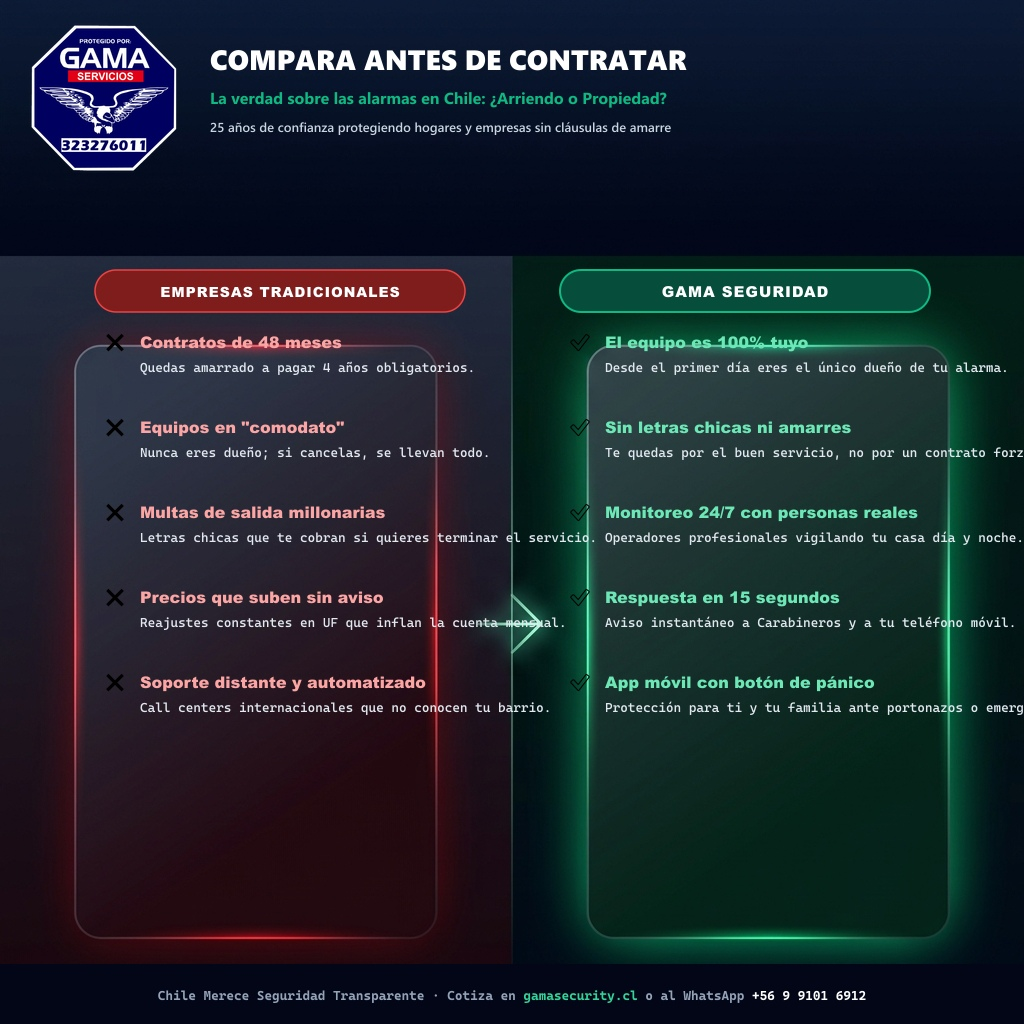
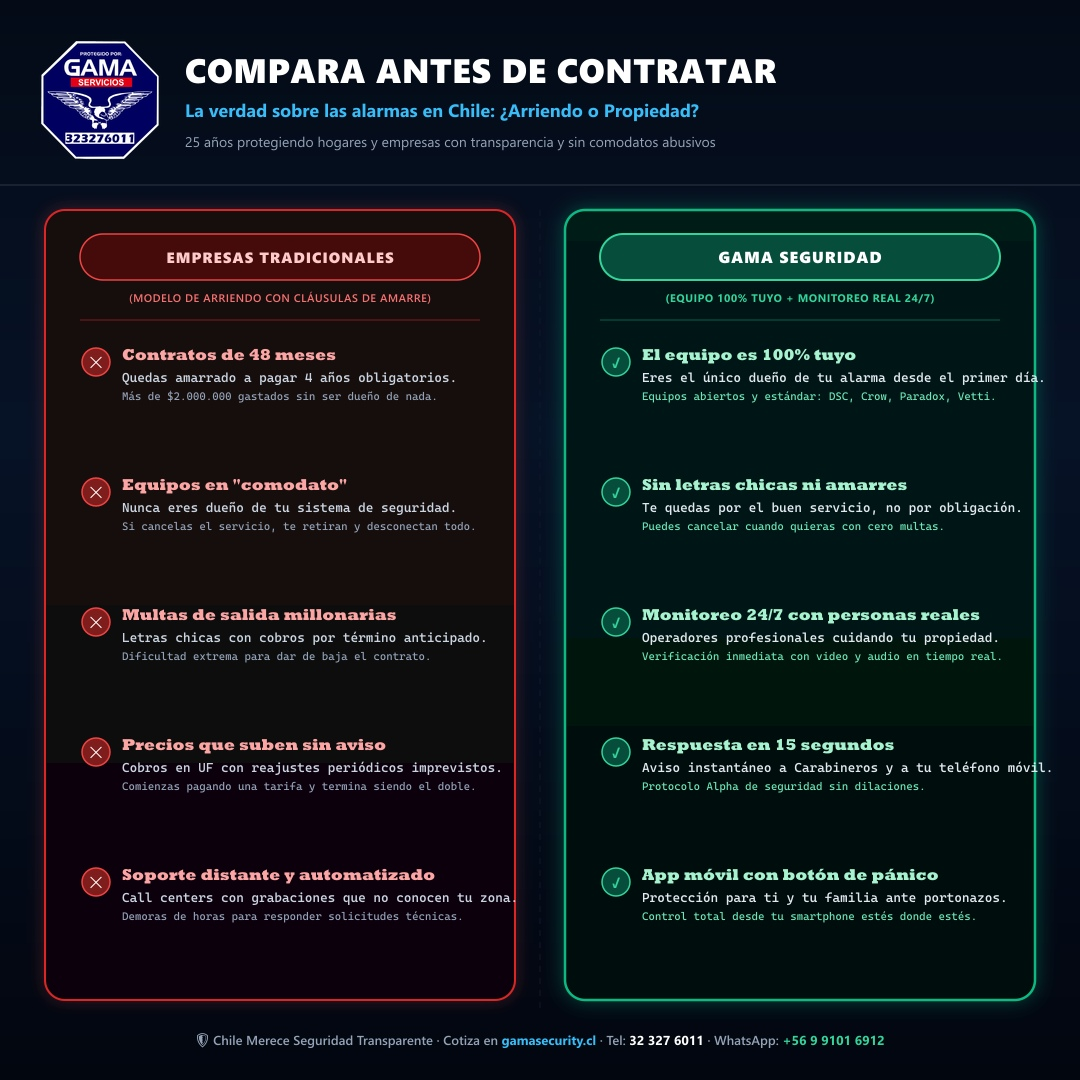
fix: encuadre geometrico matematico de propuesta 2 dentro de sus cuadros

diff --git a/dashboard/scripts/regenerar-propuesta-2-perfecta.js b/dashboard/scripts/regenerar-propuesta-2-perfecta.js
@@ -1,0 +1,228 @@
+const fs = require('fs');
+const path = require('path');
+const sharp = require('sharp');
+
+async function buildPropuesta2() {
+  const logoPath = path.join(__dirname, '..', 'public', 'logo-gama.png');
+  const outputPath = path.join(__dirname, '..', 'public', 'marketing', 'propuesta-grafica-2.jpg');
+  const artifactPath = 'C:\\Users\\tetor\\.gemini\\antigravity-ide\\brain\\4449a04b-35b9-45d2-b998-c52b5810763b\\propuesta_grafica_2_final.jpg';
+
+  // Redimensionar logo oficial manteniendo su transparencia
+  const logoBuffer = await sharp(logoPath)
+    .resize(130, 130, { fit: 'contain', background: { r: 0, g: 0, b: 0, alpha: 0 } })
+    .png()
+    .toBuffer();
+
+  // SVG con diseño 100% geométrico y matemáticamente encuadrado
+  const svgOverlay = Buffer.from(`
+  <svg width="1080" height="1080" viewBox="0 0 1080 1080" xmlns="http://www.w3.org/2000/svg">
+    <defs>
+      <!-- Fondo general -->
+      <linearGradient id="bgGrad" x1="0%" y1="0%" x2="0%" y2="100%">
+        <stop offset="0%" stop-color="#040b17"/>
+        <stop offset="40%" stop-color="#061226"/>
+        <stop offset="100%" stop-color="#02060f"/>
+      </linearGradient>
+
+      <!-- Gradiente Card Tradicionales -->
+      <linearGradient id="cardRedGrad" x1="0%" y1="0%" x2="0%" y2="100%">
+        <stop offset="0%" stop-color="#180a0e"/>
+        <stop offset="100%" stop-color="#0b0507"/>
+      </linearGradient>
+
+      <!-- Gradiente Card Gama -->
+      <linearGradient id="cardGreenGrad" x1="0%" y1="0%" x2="0%" y2="100%">
+        <stop offset="0%" stop-color="#041a18"/>
+        <stop offset="100%" stop-color="#020d0c"/>
+      </linearGradient>
+
+      <!-- Filtro Glow para Gama -->
+      <filter id="glowGreen" x="-10%" y="-10%" width="120%" height="120%">
+        <feDropShadow dx="0" dy="0" stdDeviation="10" flood-color="#10b981" flood-opacity="0.35"/>
+      </filter>
+
+      <!-- Filtro Glow para Tradicionales -->
+      <filter id="glowRed" x="-10%" y="-10%" width="120%" height="120%">
+        <feDropShadow dx="0" dy="0" stdDeviation="8" flood-color="#ef4444" flood-opacity="0.25"/>
+      </filter>
+    </defs>
+
+    <!-- FONDO BASE -->
+    <rect width="1080" height="1080" fill="url(#bgGrad)"/>
+
+    <!-- LÍNEAS TÉCNICAS SUTILES DE FONDO (Cyber Grid) -->
+    <line x1="0" y1="185" x2="1080" y2="185" stroke="#1e293b" stroke-width="1.5"/>
+    <line x1="540" y1="210" x2="540" y2="1010" stroke="#0f172a" stroke-width="1" stroke-dasharray="6,6"/>
+
+    <!-- ==================== HEADER OFICIAL ==================== -->
+    <g transform="translate(185, 45)">
+      <text x="0" y="38" font-family="-apple-system, BlinkMacSystemFont, 'Segoe UI', Roboto, sans-serif" font-weight="900" font-size="34" fill="#ffffff" letter-spacing="0.5">
+        COMPARA ANTES DE CONTRATAR
+      </text>
+      <text x="0" y="72" font-family="-apple-system, BlinkMacSystemFont, 'Segoe UI', Roboto, sans-serif" font-weight="700" font-size="18" fill="#38bdf8">
+        La verdad sobre las alarmas en Chile: ¿Arriendo o Propiedad?
+      </text>
+      <text x="0" y="102" font-family="-apple-system, BlinkMacSystemFont, 'Segoe UI', Roboto, sans-serif" font-weight="500" font-size="14" fill="#94a3b8">
+        25 años protegiendo hogares y empresas con transparencia y sin comodatos abusivos
+      </text>
+    </g>
+
+    <!-- ==================== COLUMNA 1: EMPRESAS TRADICIONALES ==================== -->
+    <!-- Caja contenedora exterior (X: 45, Y: 210, W: 470, H: 790) -->
+    <g filter="url(#glowRed)">
+      <rect x="45" y="210" width="470" height="790" rx="20" fill="url(#cardRedGrad)" stroke="#dc2626" stroke-width="2"/>
+    </g>
+
+    <!-- Cabecera de la Tarjeta Tradicional -->
+    <g transform="translate(45, 210)">
+      <!-- Pill superior -->
+      <rect x="35" y="24" width="400" height="46" rx="23" fill="#450a0a" stroke="#ef4444" stroke-width="1.5"/>
+      <text x="235" y="53" font-family="-apple-system, BlinkMacSystemFont, 'Segoe UI', Roboto, sans-serif" font-weight="900" font-size="15" fill="#fecaca" text-anchor="middle" letter-spacing="1">
+        EMPRESAS TRADICIONALES
+      </text>
+      <text x="235" y="92" font-family="-apple-system, BlinkMacSystemFont, 'Segoe UI', Roboto, sans-serif" font-weight="600" font-size="11" fill="#f87171" text-anchor="middle" letter-spacing="0.5">
+        (MODELO DE ARRIENDO CON CLÁUSULAS DE AMARRE)
+      </text>
+      
+      <!-- Separador interno -->
+      <line x1="35" y1="110" x2="435" y2="110" stroke="#7f1d1d" stroke-width="1"/>
+
+      <!-- Fila 1: Contrato 48 Meses -->
+      <g transform="translate(35, 140)">
+        <circle cx="16" cy="12" r="14" fill="#7f1d1d" stroke="#ef4444" stroke-width="1.5"/>
+        <text x="16" y="18" font-family="-apple-system, BlinkMacSystemFont, Roboto, sans-serif" font-weight="900" font-size="16" fill="#ffffff" text-anchor="middle">✕</text>
+        <text x="42" y="10" font-family="-apple-system, BlinkMacSystemFont, Roboto, sans-serif" font-weight="800" font-size="16" fill="#fca5a5">Contratos de 48 meses</text>
+        <text x="42" y="32" font-family="-apple-system, BlinkMacSystemFont, Roboto, sans-serif" font-weight="500" font-size="13" fill="#cbd5e1">Quedas amarrado a pagar 4 años obligatorios.</text>
+        <text x="42" y="50" font-family="-apple-system, BlinkMacSystemFont, Roboto, sans-serif" font-weight="400" font-size="11" fill="#94a3b8">Más de $2.000.000 gastados sin ser dueño de nada.</text>
+      </g>
+
+      <!-- Fila 2: Equipos en Comodato -->
+      <g transform="translate(35, 270)">
+        <circle cx="16" cy="12" r="14" fill="#7f1d1d" stroke="#ef4444" stroke-width="1.5"/>
+        <text x="16" y="18" font-family="-apple-system, BlinkMacSystemFont, Roboto, sans-serif" font-weight="900" font-size="16" fill="#ffffff" text-anchor="middle">✕</text>
+        <text x="42" y="10" font-family="-apple-system, BlinkMacSystemFont, Roboto, sans-serif" font-weight="800" font-size="16" fill="#fca5a5">Equipos en "comodato"</text>
+        <text x="42" y="32" font-family="-apple-system, BlinkMacSystemFont, Roboto, sans-serif" font-weight="500" font-size="13" fill="#cbd5e1">Nunca eres dueño de tu sistema de seguridad.</text>
+        <text x="42" y="50" font-family="-apple-system, BlinkMacSystemFont, Roboto, sans-serif" font-weight="400" font-size="11" fill="#94a3b8">Si cancelas el servicio, te retiran y desconectan todo.</text>
+      </g>
+
+      <!-- Fila 3: Multas de salida -->
+      <g transform="translate(35, 400)">
+        <circle cx="16" cy="12" r="14" fill="#7f1d1d" stroke="#ef4444" stroke-width="1.5"/>
+        <text x="16" y="18" font-family="-apple-system, BlinkMacSystemFont, Roboto, sans-serif" font-weight="900" font-size="16" fill="#ffffff" text-anchor="middle">✕</text>
+        <text x="42" y="10" font-family="-apple-system, BlinkMacSystemFont, Roboto, sans-serif" font-weight="800" font-size="16" fill="#fca5a5">Multas de salida millonarias</text>
+        <text x="42" y="32" font-family="-apple-system, BlinkMacSystemFont, Roboto, sans-serif" font-weight="500" font-size="13" fill="#cbd5e1">Letras chicas con cobros por término anticipado.</text>
+        <text x="42" y="50" font-family="-apple-system, BlinkMacSystemFont, Roboto, sans-serif" font-weight="400" font-size="11" fill="#94a3b8">Dificultad extrema para dar de baja el contrato.</text>
+      </g>
+
+      <!-- Fila 4: Precios con alzas continuas -->
+      <g transform="translate(35, 530)">
+        <circle cx="16" cy="12" r="14" fill="#7f1d1d" stroke="#ef4444" stroke-width="1.5"/>
+        <text x="16" y="18" font-family="-apple-system, BlinkMacSystemFont, Roboto, sans-serif" font-weight="900" font-size="16" fill="#ffffff" text-anchor="middle">✕</text>
+        <text x="42" y="10" font-family="-apple-system, BlinkMacSystemFont, Roboto, sans-serif" font-weight="800" font-size="16" fill="#fca5a5">Precios que suben sin aviso</text>
+        <text x="42" y="32" font-family="-apple-system, BlinkMacSystemFont, Roboto, sans-serif" font-weight="500" font-size="13" fill="#cbd5e1">Cobros en UF con reajustes periódicos imprevistos.</text>
+        <text x="42" y="50" font-family="-apple-system, BlinkMacSystemFont, Roboto, sans-serif" font-weight="400" font-size="11" fill="#94a3b8">Comienzas pagando una tarifa y termina siendo el doble.</text>
+      </g>
+
+      <!-- Fila 5: Call center distante -->
+      <g transform="translate(35, 660)">
+        <circle cx="16" cy="12" r="14" fill="#7f1d1d" stroke="#ef4444" stroke-width="1.5"/>
+        <text x="16" y="18" font-family="-apple-system, BlinkMacSystemFont, Roboto, sans-serif" font-weight="900" font-size="16" fill="#ffffff" text-anchor="middle">✕</text>
+        <text x="42" y="10" font-family="-apple-system, BlinkMacSystemFont, Roboto, sans-serif" font-weight="800" font-size="16" fill="#fca5a5">Soporte distante y automatizado</text>
+        <text x="42" y="32" font-family="-apple-system, BlinkMacSystemFont, Roboto, sans-serif" font-weight="500" font-size="13" fill="#cbd5e1">Call centers con grabaciones que no conocen tu zona.</text>
+        <text x="42" y="50" font-family="-apple-system, BlinkMacSystemFont, Roboto, sans-serif" font-weight="400" font-size="11" fill="#94a3b8">Demoras de horas para responder solicitudes técnicas.</text>
+      </g>
+    </g>
+
+
+    <!-- ==================== COLUMNA 2: GAMA SEGURIDAD ==================== -->
+    <!-- Caja contenedora exterior (X: 565, Y: 210, W: 470, H: 790) -->
+    <g filter="url(#glowGreen)">
+      <rect x="565" y="210" width="470" height="790" rx="20" fill="url(#cardGreenGrad)" stroke="#10b981" stroke-width="2.5"/>
+    </g>
+
+    <!-- Cabecera de la Tarjeta Gama -->
+    <g transform="translate(565, 210)">
+      <!-- Pill superior -->
+      <rect x="35" y="24" width="400" height="46" rx="23" fill="#064e3b" stroke="#34d399" stroke-width="2"/>
+      <text x="235" y="53" font-family="-apple-system, BlinkMacSystemFont, 'Segoe UI', Roboto, sans-serif" font-weight="900" font-size="16" fill="#ffffff" text-anchor="middle" letter-spacing="1">
+        GAMA SEGURIDAD
+      </text>
+      <text x="235" y="92" font-family="-apple-system, BlinkMacSystemFont, 'Segoe UI', Roboto, sans-serif" font-weight="700" font-size="11" fill="#34d399" text-anchor="middle" letter-spacing="0.5">
+        (EQUIPO 100% TUYO + MONITOREO REAL 24/7)
+      </text>
+
+      <!-- Separador interno -->
+      <line x1="35" y1="110" x2="435" y2="110" stroke="#065f46" stroke-width="1"/>
+
+      <!-- Fila 1: Equipo 100% tuyo -->
+      <g transform="translate(35, 140)">
+        <circle cx="16" cy="12" r="14" fill="#064e3b" stroke="#34d399" stroke-width="1.5"/>
+        <text x="16" y="18" font-family="-apple-system, BlinkMacSystemFont, Roboto, sans-serif" font-weight="900" font-size="15" fill="#34d399" text-anchor="middle">✓</text>
+        <text x="42" y="10" font-family="-apple-system, BlinkMacSystemFont, Roboto, sans-serif" font-weight="800" font-size="16" fill="#a7f3d0">El equipo es 100% tuyo</text>
+        <text x="42" y="32" font-family="-apple-system, BlinkMacSystemFont, Roboto, sans-serif" font-weight="500" font-size="13" fill="#e2e8f0">Eres el único dueño de tu alarma desde el primer día.</text>
+        <text x="42" y="50" font-family="-apple-system, BlinkMacSystemFont, Roboto, sans-serif" font-weight="400" font-size="11" fill="#6ee7b7">Equipos abiertos y estándar: DSC, Crow, Paradox, Vetti.</text>
+      </g>
+
+      <!-- Fila 2: Sin amarres -->
+      <g transform="translate(35, 270)">
+        <circle cx="16" cy="12" r="14" fill="#064e3b" stroke="#34d399" stroke-width="1.5"/>
+        <text x="16" y="18" font-family="-apple-system, BlinkMacSystemFont, Roboto, sans-serif" font-weight="900" font-size="15" fill="#34d399" text-anchor="middle">✓</text>
+        <text x="42" y="10" font-family="-apple-system, BlinkMacSystemFont, Roboto, sans-serif" font-weight="800" font-size="16" fill="#a7f3d0">Sin letras chicas ni amarres</text>
+        <text x="42" y="32" font-family="-apple-system, BlinkMacSystemFont, Roboto, sans-serif" font-weight="500" font-size="13" fill="#e2e8f0">Te quedas por el buen servicio, no por obligación.</text>
+        <text x="42" y="50" font-family="-apple-system, BlinkMacSystemFont, Roboto, sans-serif" font-weight="400" font-size="11" fill="#6ee7b7">Puedes cancelar cuando quieras con cero multas.</text>
+      </g>
+
+      <!-- Fila 3: Monitoreo con personas reales -->
+      <g transform="translate(35, 400)">
+        <circle cx="16" cy="12" r="14" fill="#064e3b" stroke="#34d399" stroke-width="1.5"/>
+        <text x="16" y="18" font-family="-apple-system, BlinkMacSystemFont, Roboto, sans-serif" font-weight="900" font-size="15" fill="#34d399" text-anchor="middle">✓</text>
+        <text x="42" y="10" font-family="-apple-system, BlinkMacSystemFont, Roboto, sans-serif" font-weight="800" font-size="16" fill="#a7f3d0">Monitoreo 24/7 con personas reales</text>
+        <text x="42" y="32" font-family="-apple-system, BlinkMacSystemFont, Roboto, sans-serif" font-weight="500" font-size="13" fill="#e2e8f0">Operadores profesionales cuidando tu propiedad.</text>
+        <text x="42" y="50" font-family="-apple-system, BlinkMacSystemFont, Roboto, sans-serif" font-weight="400" font-size="11" fill="#6ee7b7">Verificación inmediata con video y audio en tiempo real.</text>
+      </g>
+
+      <!-- Fila 4: Respuesta en 15s -->
+      <g transform="translate(35, 530)">
+        <circle cx="16" cy="12" r="14" fill="#064e3b" stroke="#34d399" stroke-width="1.5"/>
+        <text x="16" y="18" font-family="-apple-system, BlinkMacSystemFont, Roboto, sans-serif" font-weight="900" font-size="15" fill="#34d399" text-anchor="middle">✓</text>
+        <text x="42" y="10" font-family="-apple-system, BlinkMacSystemFont, Roboto, sans-serif" font-weight="800" font-size="16" fill="#a7f3d0">Respuesta en 15 segundos</text>
+        <text x="42" y="32" font-family="-apple-system, BlinkMacSystemFont, Roboto, sans-serif" font-weight="500" font-size="13" fill="#e2e8f0">Aviso instantáneo a Carabineros y a tu teléfono móvil.</text>
+        <text x="42" y="50" font-family="-apple-system, BlinkMacSystemFont, Roboto, sans-serif" font-weight="400" font-size="11" fill="#6ee7b7">Protocolo Alpha de seguridad sin dilaciones.</text>
+      </g>
+
+      <!-- Fila 5: App móvil y pánico -->
+      <g transform="translate(35, 660)">
+        <circle cx="16" cy="12" r="14" fill="#064e3b" stroke="#34d399" stroke-width="1.5"/>
+        <text x="16" y="18" font-family="-apple-system, BlinkMacSystemFont, Roboto, sans-serif" font-weight="900" font-size="15" fill="#34d399" text-anchor="middle">✓</text>
+        <text x="42" y="10" font-family="-apple-system, BlinkMacSystemFont, Roboto, sans-serif" font-weight="800" font-size="16" fill="#a7f3d0">App móvil con botón de pánico</text>
+        <text x="42" y="32" font-family="-apple-system, BlinkMacSystemFont, Roboto, sans-serif" font-weight="500" font-size="13" fill="#e2e8f0">Protección para ti y tu familia ante portonazos.</text>
+        <text x="42" y="50" font-family="-apple-system, BlinkMacSystemFont, Roboto, sans-serif" font-weight="400" font-size="11" fill="#6ee7b7">Control total desde tu smartphone estés donde estés.</text>
+      </g>
+    </g>
+
+    <!-- ==================== FOOTER ==================== -->
+    <g transform="translate(540, 1045)">
+      <text x="0" y="0" font-family="-apple-system, BlinkMacSystemFont, 'Segoe UI', Roboto, sans-serif" font-weight="600" font-size="13" fill="#94a3b8" text-anchor="middle">
+        🛡 Chile Merece Seguridad Transparente · Cotiza en <tspan fill="#38bdf8" font-weight="700">gamasecurity.cl</tspan> · Tel: <tspan fill="#ffffff" font-weight="700">32 327 6011</tspan> · WhatsApp: <tspan fill="#34d399" font-weight="700">+56 9 9101 6912</tspan>
+      </text>
+    </g>
+  </svg>
+  `);
+
+  // Componer imagen final
+  await sharp(svgOverlay)
+    .composite([
+      {
+        input: logoBuffer,
+        top: 35,
+        left: 35
+      }
+    ])
+    .jpeg({ quality: 96 })
+    .toFile(outputPath);
+
+  fs.copyFileSync(outputPath, artifactPath);
+  console.log('PROPUESTA 2 GENERADA CON ÉXITO Y PERFECTAMENTE ENCUADRADA');
+}
+
+buildPropuesta2().catch(console.error);
